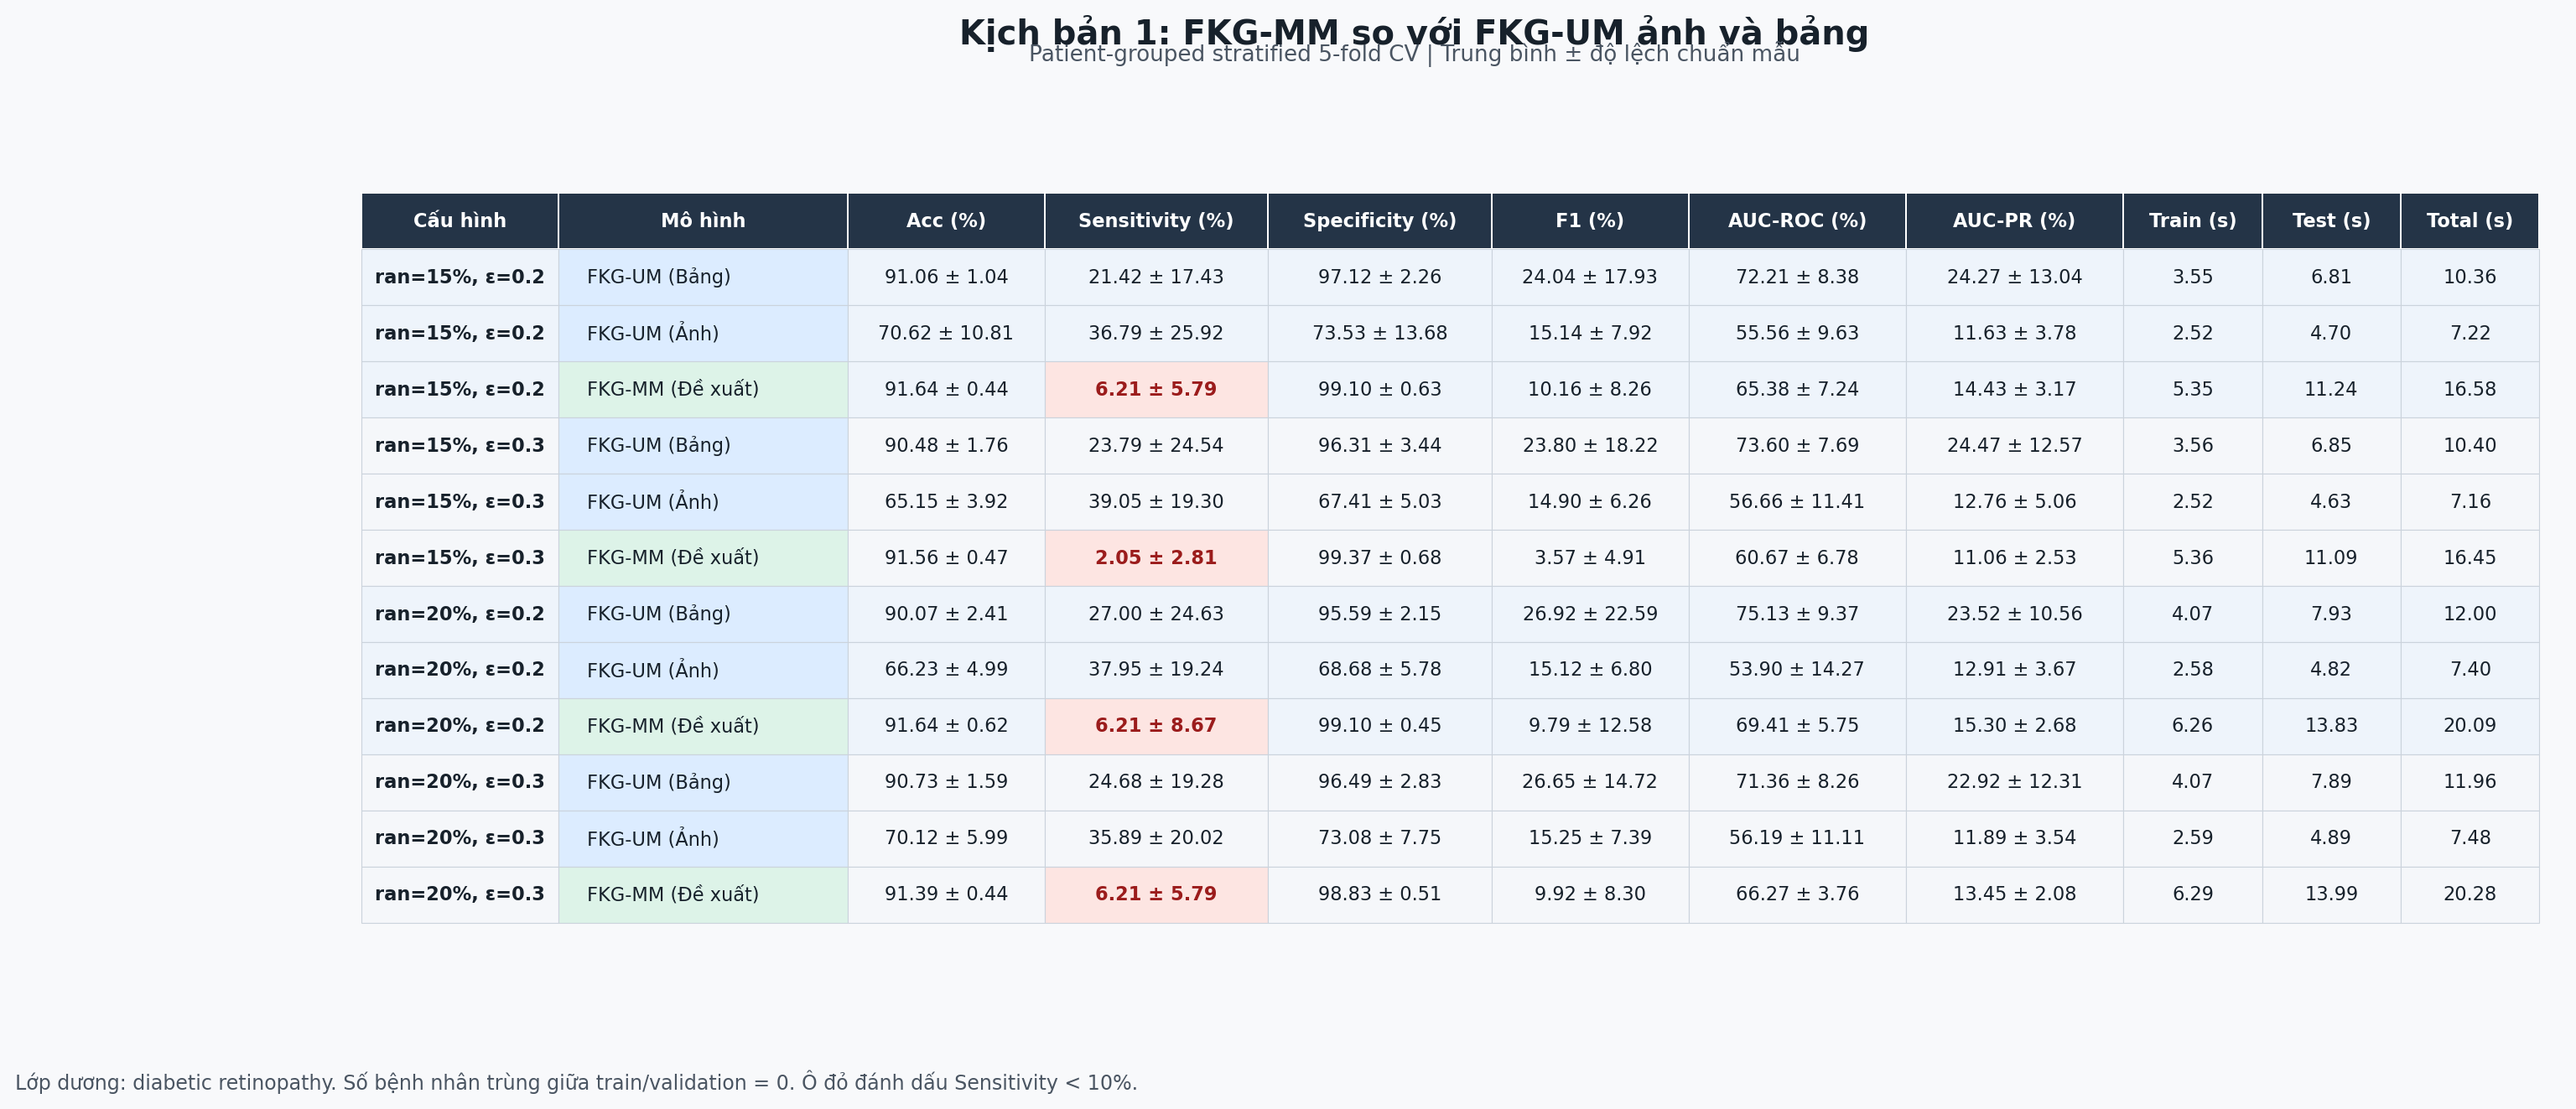
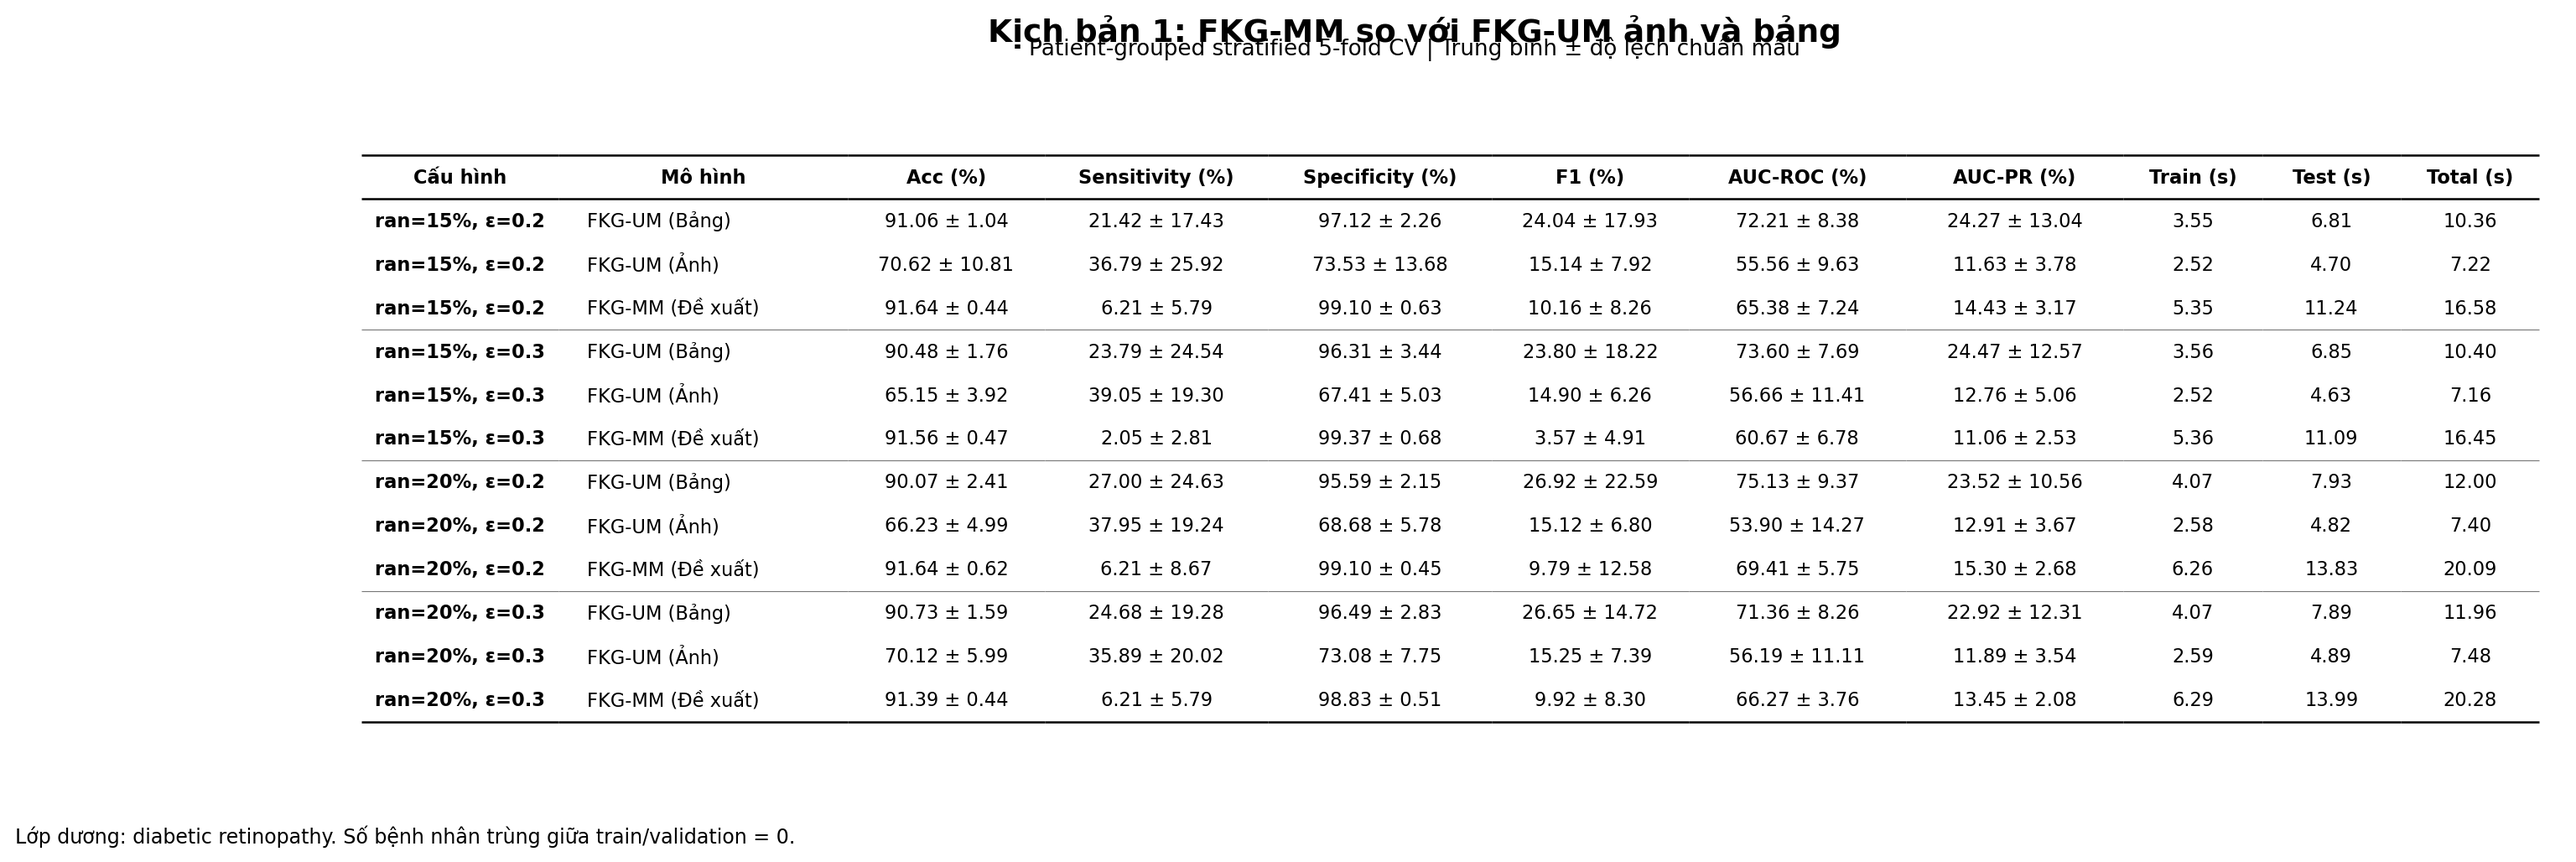
Export reviewer results as plain table images

diff --git a/Source_code/main/diabetic_retinopathy/export_fkgs_scenario_images.py b/Source_code/main/diabetic_retinopathy/export_fkgs_scenario_images.py
@@ -50,7 +50,7 @@ def format_mean_std(row: pd.Series, mean_column: str, std_column: str) -> str:
     return f"{float(row[mean_column]):.2f} ± {float(row[std_column]):.2f}"
 
 
-def scenario_rows(frame: pd.DataFrame, modalities: list[str]) -> tuple[list[str], list[list[str]], list[float]]:
+def scenario_rows(frame: pd.DataFrame, modalities: list[str]) -> tuple[list[str], list[list[str]]]:
     ordered = frame[frame["modality_key"].isin(modalities)].copy()
     modality_order = {name: index for index, name in enumerate(modalities)}
     ordered["_order"] = ordered["modality_key"].map(modality_order)
@@ -65,7 +65,6 @@ def scenario_rows(frame: pd.DataFrame, modalities: list[str]) -> tuple[list[str]
         "Total (s)",
     ]
     rows: list[list[str]] = []
-    sensitivities: list[float] = []
     for _, row in ordered.iterrows():
         rows.append(
             [
@@ -80,8 +79,7 @@ def scenario_rows(frame: pd.DataFrame, modalities: list[str]) -> tuple[list[str]
                 f"{float(row['end_to_end_time_s']):.2f}",
             ]
         )
-        sensitivities.append(float(row["sensitivity_pct"]))
-    return headers, rows, sensitivities
+    return headers, rows
 
 
 def render_table(
@@ -91,9 +89,9 @@ def render_table(
     output_path: Path,
     dpi: int,
 ) -> None:
-    headers, rows, sensitivities = scenario_rows(frame, modalities)
-    figure_height = max(6.0, 1.9 + len(rows) * 0.48)
-    fig, ax = plt.subplots(figsize=(19.0, figure_height), facecolor="#f8f9fb")
+    headers, rows = scenario_rows(frame, modalities)
+    figure_height = max(5.6, 1.55 + len(rows) * 0.36)
+    fig, ax = plt.subplots(figsize=(19.0, figure_height), facecolor="white")
     ax.axis("off")
 
     column_widths = [0.095, 0.14, 0.095, 0.108, 0.108, 0.095, 0.105, 0.105, 0.067, 0.067, 0.067]
@@ -103,61 +101,55 @@ def render_table(
         cellLoc="center",
         colLoc="center",
         colWidths=column_widths,
-        bbox=[0.01, 0.09, 0.98, 0.82],
+        bbox=[0.01, 0.08, 0.98, 0.83],
     )
     table.auto_set_font_size(False)
     table.set_fontsize(9.0)
 
-    header_color = "#243447"
-    header_text = "#ffffff"
-    group_colors = ["#eef4fb", "#f5f7fa"]
-    model_colors = {"FKG-UM": "#dcecff", "FKG-MM": "#ddf3e8"}
-    low_sensitivity_color = "#fde5e2"
-
     for column in range(len(headers)):
         cell = table[(0, column)]
-        cell.set_facecolor(header_color)
-        cell.set_text_props(color=header_text, weight="bold")
-        cell.set_edgecolor("#ffffff")
-        cell.set_linewidth(0.8)
+        cell.set_facecolor("white")
+        cell.set_text_props(color="black", weight="bold")
+        cell.set_edgecolor("black")
+        cell.set_linewidth(1.0)
+        cell.visible_edges = "TB"
 
     rows_per_config = len(modalities)
     for row_index, row in enumerate(rows, start=1):
-        group_index = (row_index - 1) // rows_per_config
         for column in range(len(headers)):
             cell = table[(row_index, column)]
-            cell.set_facecolor(group_colors[group_index % len(group_colors)])
-            cell.set_edgecolor("#cbd3dc")
+            cell.set_facecolor("white")
+            cell.set_edgecolor("#777777")
             cell.set_linewidth(0.45)
-            cell.set_text_props(color="#17212b")
-        table[(row_index, 1)].set_facecolor(
-            model_colors["FKG-UM"] if row[1].startswith("FKG-UM") else model_colors["FKG-MM"]
-        )
-        if sensitivities[row_index - 1] < 10.0:
-            table[(row_index, 3)].set_facecolor(low_sensitivity_color)
-            table[(row_index, 3)].set_text_props(color="#9b1c1c", weight="bold")
+            cell.set_text_props(color="black")
+            cell.visible_edges = "B" if row_index % rows_per_config == 0 else "open"
+
+    for column in range(len(headers)):
+        cell = table[(len(rows), column)]
+        cell.set_edgecolor("black")
+        cell.set_linewidth(1.0)
+        cell.visible_edges = "B"
 
     for row_index in range(1, len(rows) + 1):
         table[(row_index, 0)].set_text_props(weight="bold")
         table[(row_index, 1)].set_text_props(ha="left")
 
-    fig.suptitle(title, fontsize=16, fontweight="bold", color="#17212b", y=0.965)
+    fig.suptitle(title, fontsize=15, fontweight="bold", color="black", y=0.97)
     fig.text(
         0.5,
         0.925,
         "Patient-grouped stratified 5-fold CV | Trung bình ± độ lệch chuẩn mẫu",
         ha="center",
         fontsize=10.5,
-        color="#4a5562",
+        color="black",
     )
     fig.text(
         0.012,
         0.035,
-        "Lớp dương: diabetic retinopathy. Số bệnh nhân trùng giữa train/validation = 0. "
-        "Ô đỏ đánh dấu Sensitivity < 10%.",
+        "Lớp dương: diabetic retinopathy. Số bệnh nhân trùng giữa train/validation = 0.",
         ha="left",
         fontsize=9.5,
-        color="#4a5562",
+        color="black",
     )
     output_path.parent.mkdir(parents=True, exist_ok=True)
     fig.savefig(output_path, dpi=dpi, facecolor=fig.get_facecolor(), bbox_inches="tight")
